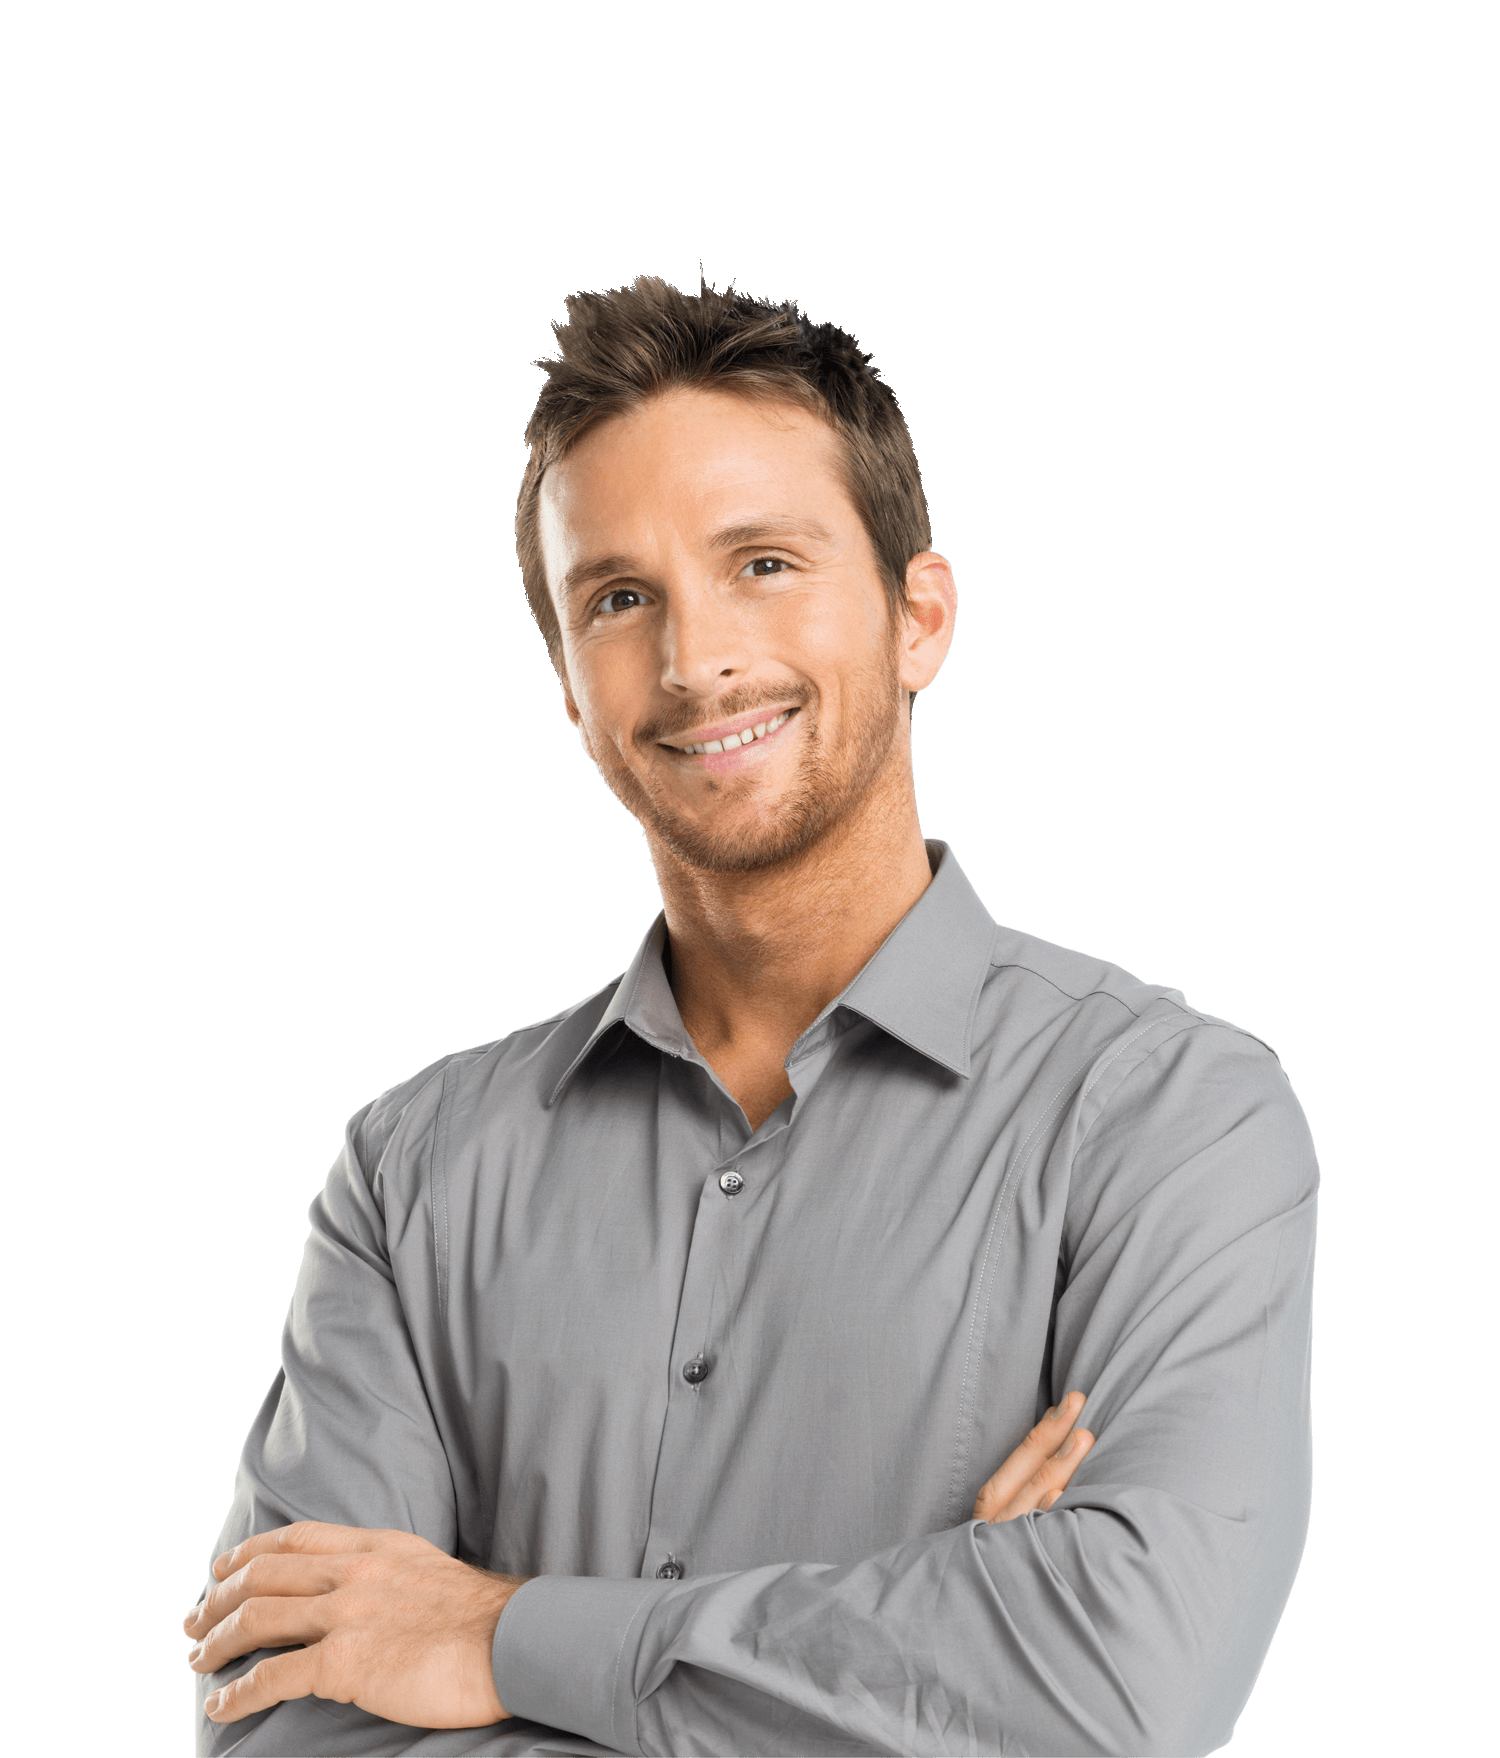
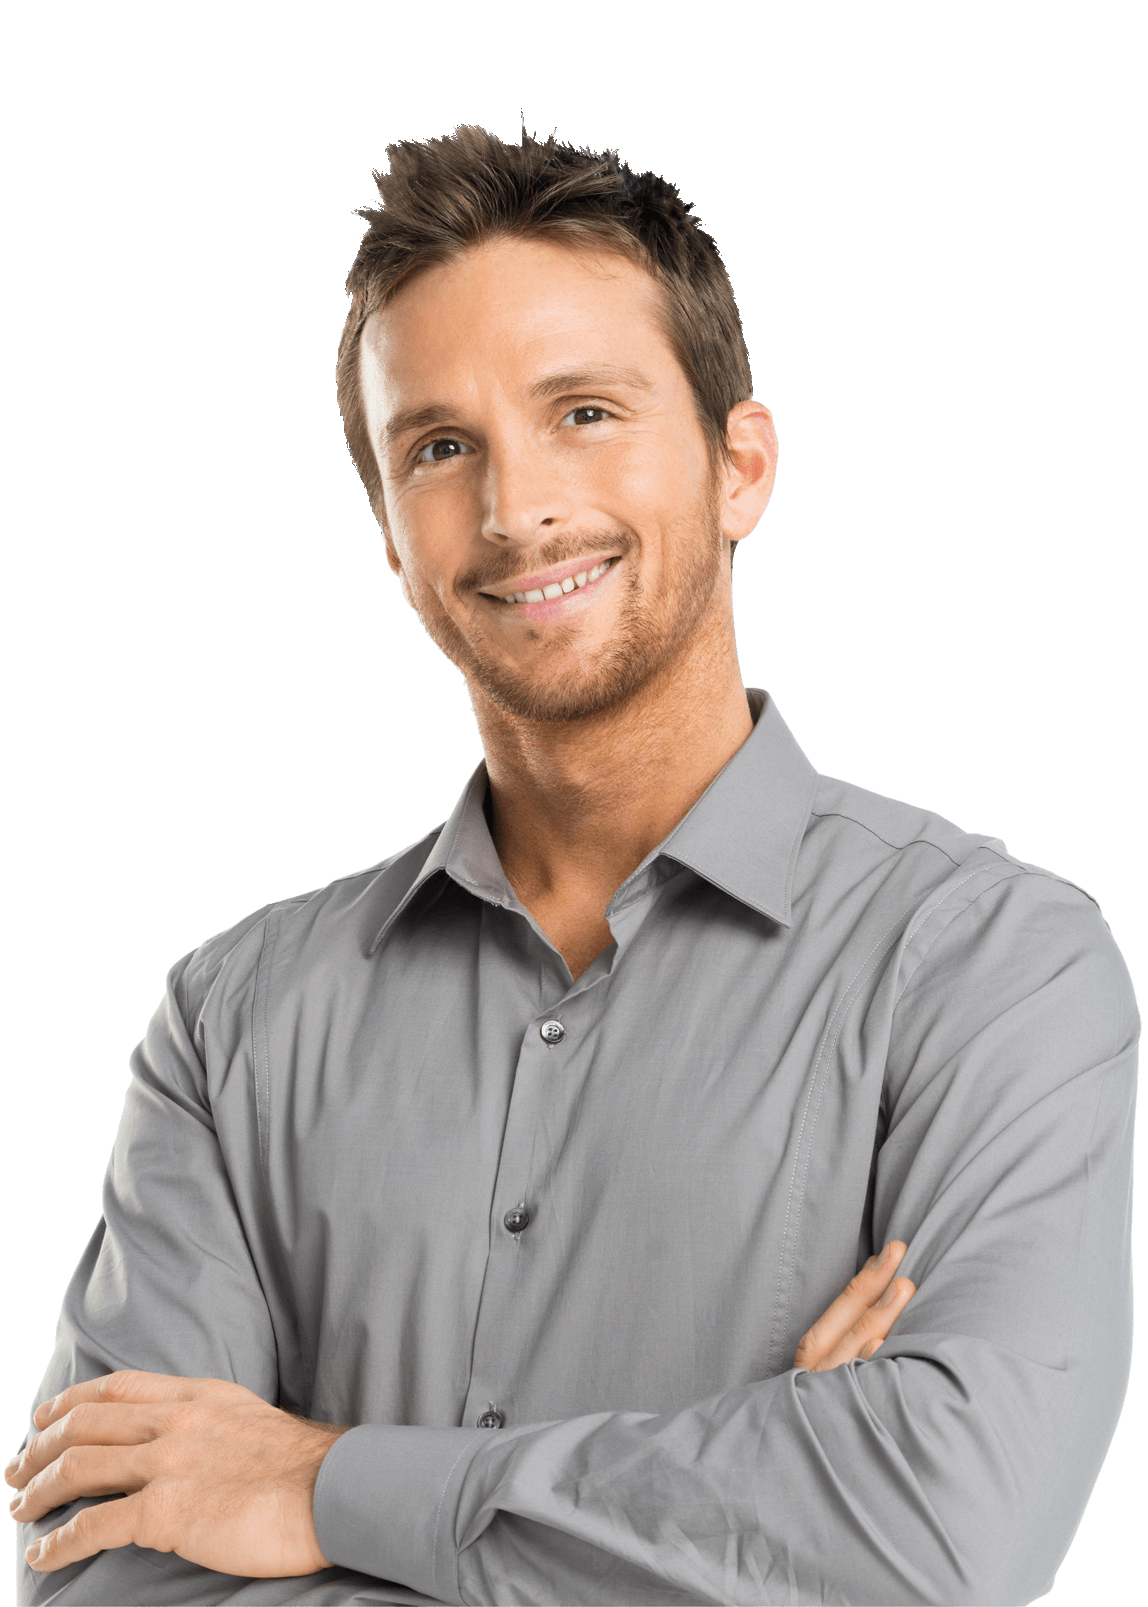
added googly eyes, and scaled everything to focus on mobile screens

diff --git a/src/app/page.tsx b/src/app/page.tsx
@@ -2,12 +2,23 @@
 
 import { useEffect } from 'react';
 import Parallax from 'parallax-js';
-
 export default function Home() {
   useEffect(() => {
     var scene = document.getElementById('scene') as HTMLElement;
+    var leftEyeScene = document.getElementById('leftEyeScene') as HTMLElement;
+    var rightEyeScene = document.getElementById('rightEyeScene') as HTMLElement;
     var parallaxInstance = new Parallax(scene, {
       relativeInput: true,
+    });
+    var parallaxInstance2 = new Parallax(leftEyeScene, {
+      relativeInput: true,
+      limitX: 7,
+      limitY: 7,
+    });
+    var parallaxInstance3 = new Parallax(rightEyeScene, {
+      relativeInput: true,
+      limitX: 7,
+      limitY: 7,
     });
   }, []);
   return (
@@ -17,7 +28,14 @@ export default function Home() {
         data-depth='0.1'
       ></div>
       <div className='parallaxMeg overflow-hidden' data-depth='0.2'>
-        <div className='parallaxGooglyEyes'></div>
+        <div className='parallaxGooglyEyes'>
+          <div id='leftEyeScene' className='parallaxLeye parallaxEye'>
+            <div className='parallaxPupil' data-depth='-2'></div>
+          </div>
+          <div id='rightEyeScene' className='parallaxReye parallaxEye'>
+            <div className='parallaxPupil' data-depth='-2'></div>
+          </div>
+        </div>
       </div>
       <div className='parallaxForgrunn1 overflow-hidden' data-depth='0.4'></div>
       <div className='parallaxForgrunn2 overflow-hidden' data-depth='0.6'></div>

diff --git a/src/app/globals.css b/src/app/globals.css
@@ -31,6 +31,7 @@ body {
 #scene {
   background-image: url(../../public/img/taageskog.jpg);
   background-size: cover;
+  overflow: hidden;
 }
 .parallaxBackgroundParticles {
   background-image: url(../../public/img/Particles-Transparent-File.png);
@@ -42,11 +43,11 @@ body {
 }
 .parallaxMeg {
   background-image: url(../../public/img/placeholderChrister.png);
-  height: 110vh;
-  width: 100vw;
+  background-size: 400px;
   background-repeat: no-repeat;
-  background-position: center bottom;
-  background-size: contain;
+  background-position: bottom center;
+  width: 100vw;
+  height: 110vh;
 }
 .parallaxForgrunn2 {
   background-image: url(../../public/img/snow.png);
@@ -57,4 +58,28 @@ body {
   height: 130%;
   background-blend-mode: screen;
   opacity: 0.2;
+}
+.parallaxGooglyEyes {
+  width: 100%;
+  height: 100%;
+  margin-left: calc(50% - 65px);
+  display: flex;
+  align-items: end;
+  gap: 10px;
+}
+.parallaxEye {
+  background-color: #ddeeff;
+  height: 40px;
+  width: 40px;
+  clip-path: circle(50% at 50% 50%);
+  margin-bottom: 390px;
+}
+.parallaxLeye {
+  margin-bottom: 380px;
+}
+.parallaxPupil {
+  background-color: #110022;
+  height: 33px;
+  width: 33px;
+  clip-path: circle(50% at 50% 50%);
 }
